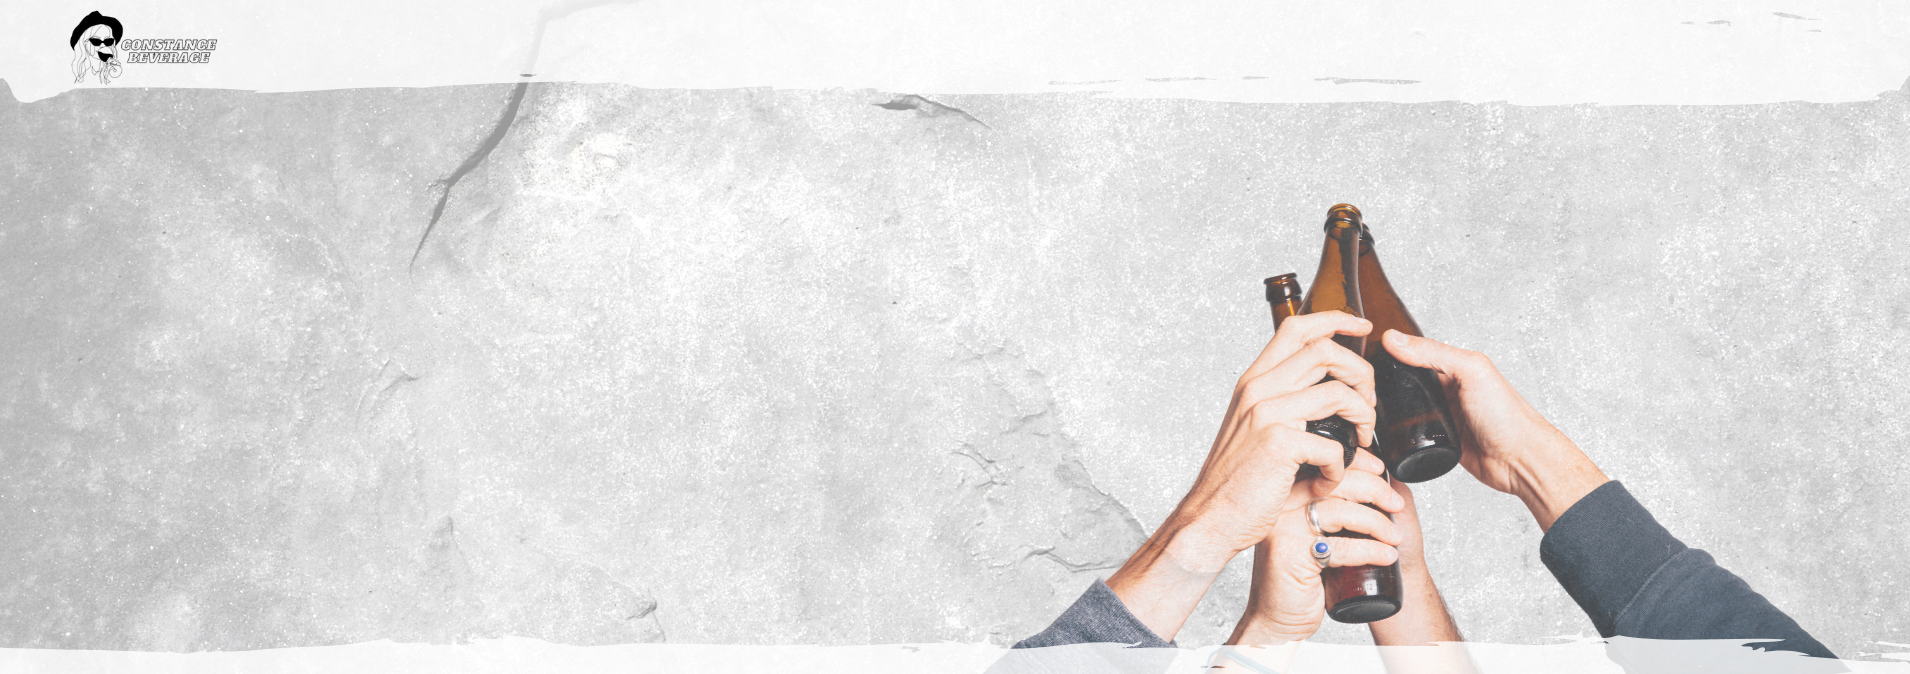
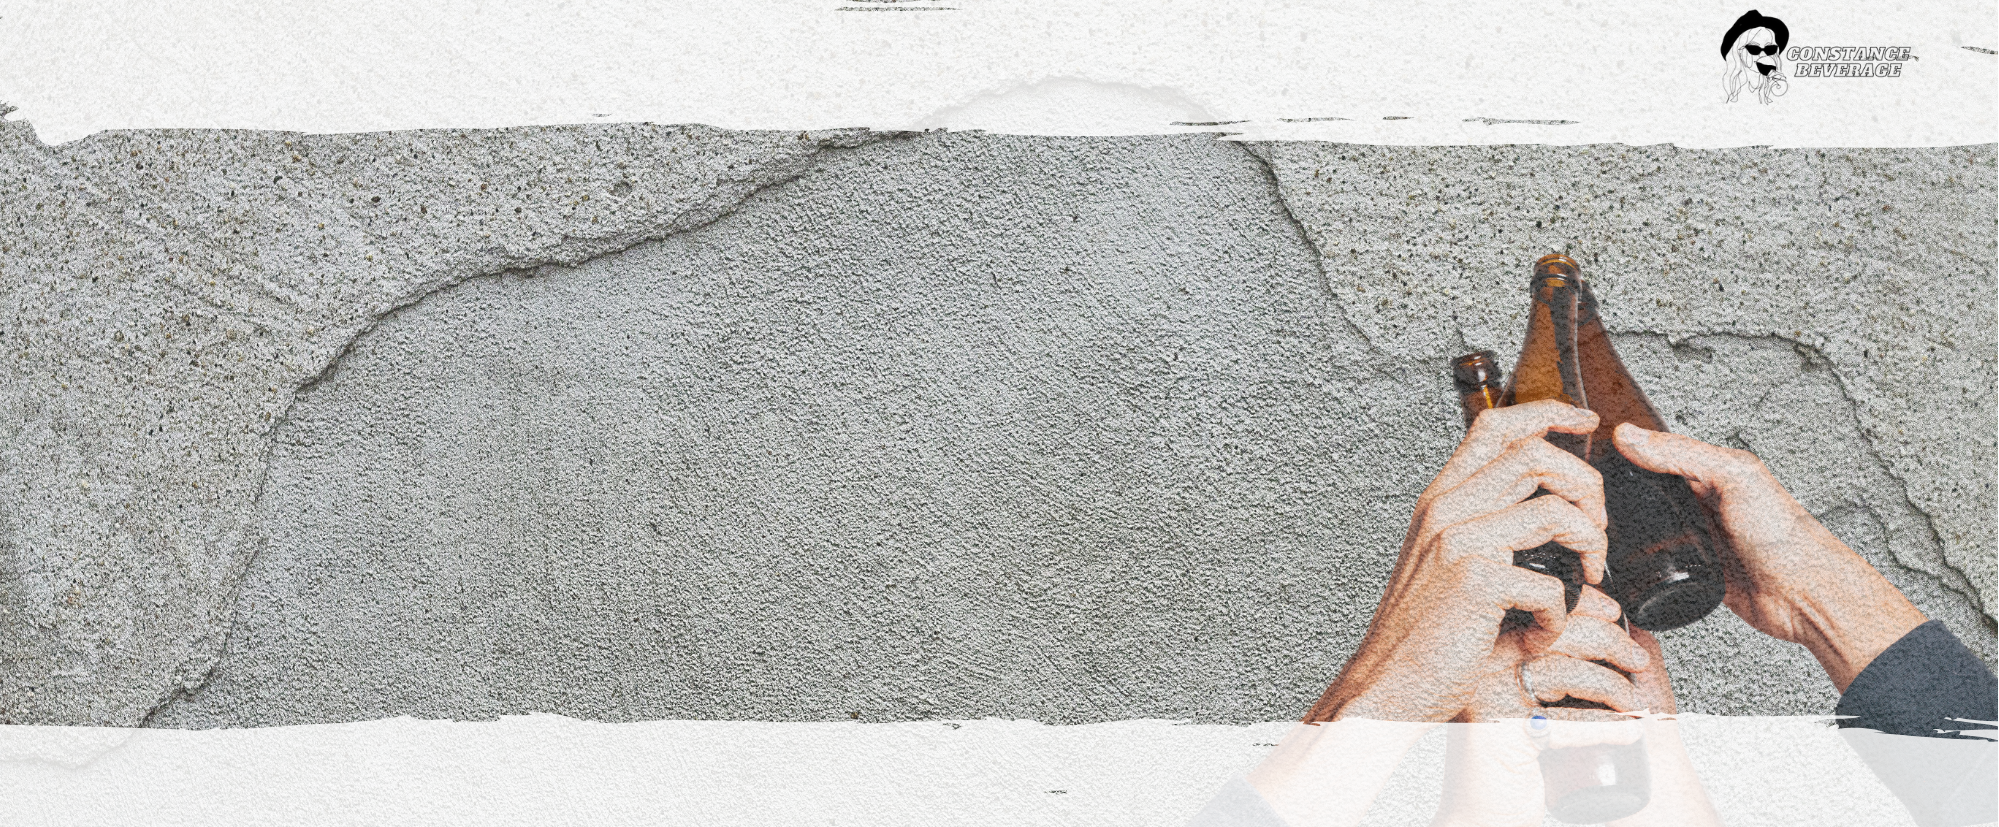
STOP TOUCH IT!!!

diff --git a/style.css b/style.css
@@ -32,7 +32,7 @@ header {
     grid-area: header; 
 }
 
-.bg-img {
+.bg-img-index {
     background-image:url("./Images/header-img5.png");
     min-height: 240px;
     background-position: top right;
@@ -393,7 +393,7 @@ header video {
         "footer footer footer";
     }
 
-    .bg-img {
+    .bg-img-index {
         min-height: 520px;  
     }
 
@@ -405,8 +405,8 @@ header video {
     
     .burger {
         font-size: 30px;
-        padding-left: 1310px;
-        padding-top: 20px;
+        margin-left: 30px;
+        
     }
 
     .textmainh1, .info-gallery h1, .gallery-header h1 {
@@ -474,34 +474,13 @@ header video {
         margin-top: 10rem;
     }
 
-    body .wrapper {
-        grid-template-columns: repeat(6, 1fr);
-        grid-template-rows: 16.92rem 16.92rem 4.23rem 38.07rem 12.69rem 29.61rem auto 8.46rem 16.92rem;
-        grid-template-areas: 
-        "welcome welcome welcome learn learn learn" 
-        "welcome welcome welcome learn learn learn" 
-        ;
-      }
-    
-      body .wrapper .welcome {
-        grid-area: welcome;
-        background: var(--light-blue) url(../img/family.png) no-repeat bottom right;
-        padding: 3rem 8rem;  
-        background-size: 18rem;
-        min-height: unset;
-      }
-    
-      body .wrapper .learn, body .wrapper .join {
-        min-height: unset;
-      }
-
-      header video {
+    .gallery-header video {
         display: none;
     }
 
-    .bg-img3 {
+    .bg-img-gallery {
         background-image:url("./Images/header-gallery.png");
-        min-height: 510px;
+        min-height: 600px;
         background-position: top right;
         background-repeat: no-repeat;
         background-size: cover;

diff --git a/Views/gallery.html b/Views/gallery.html
@@ -14,7 +14,7 @@
 
 <body>
     <section id="home">
-        <div class="bg-img3">
+        <div class="bg-img-gallery">
             <nav id="main-nav" class="overlay">
                 <a href="javascript:void(0)" class="closebtn" onclick="closeNav()">&times;</a>
                 <div class="overlay-content">
@@ -28,6 +28,7 @@
             <h1 class="text-header text-header-gallery">WELCOME TO OUR GALLERY.<br>LAY BACK & ENJOY.</h1>
         </div>
     </section>
+    
     <header class="gallery-header">
         <video playsinline autoplay muted loop poster="./images/jelly.jpg">
             <source src="../images/movie-beer.mov" type="video/mp4">
@@ -35,6 +36,8 @@
           <h1 style="font-size:8vw;">FEEL THE TASTE</h1>
           <p>Lorem ipsum dolor sit amet consectetur adipisicing elit. Sapiente ex saepe suscipit magnam consequatur ipsam dolorem harum sequi? Dicta amet nam optio, saepe recusandae perferendis possimus quasi doloribus itaque architecto! Lorem ipsum dolor sit amet consectetur adipisicing elit. Quisquam magnam at, sint nemo distinctio asperiores, laboriosam nisi accusamus nostrum eaque porro, praesentium facere ducimus. Atque praesentium alias rem beatae aperiam.</p>
     </header>
+    
+    
 
     <section class="gallery-imgs">
         <figure class="gallery-imgs__image"><img src="../images/gallery1.jpeg" alt="drink"></figure>

diff --git a/Views/index.html b/Views/index.html
@@ -16,7 +16,7 @@
     <div class="grid-container">
     
         <header id="home">
-            <div class="bg-img">
+            <div class="bg-img-index">
                 <nav id="main-nav" class="overlay">
                     <a href="javascript:void(0)" class="closebtn" onclick="closeNav()">&times;</a>
                     <div class="overlay-content">
